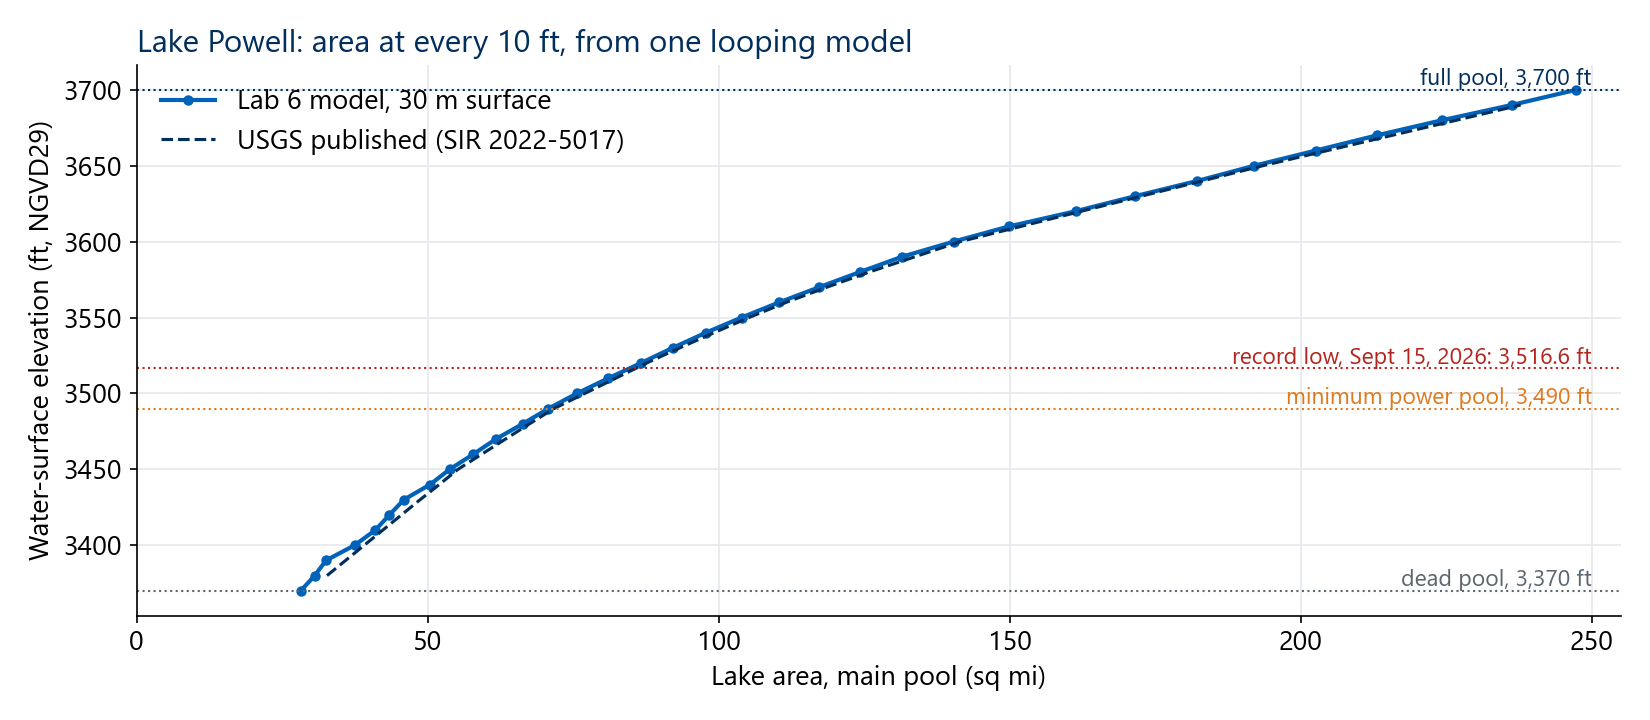
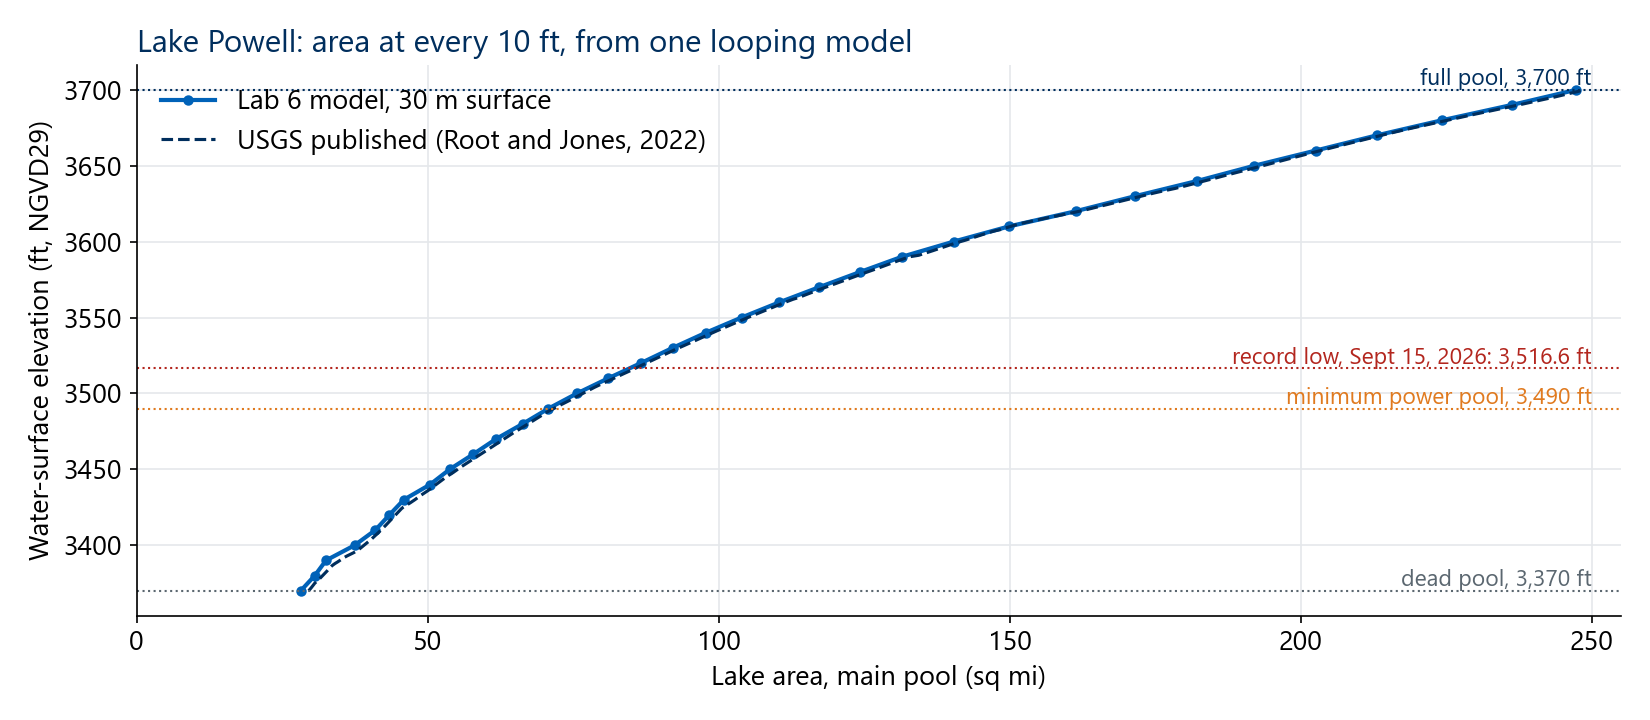
Week 7 Thursday: USGS area curve from the data release; 0.2-1.3 % below
The 'published' curve in lb-powell-area.png came from the Lab 6 package's
interpolation, which was off at 3,500 and 3,700 ft. It now reads the USGS
area-capacity data release behind SIR 2022-5017. The slide says the model
runs 0.2-1.3 % below between 3,500 and 3,700 ft and further below near dead
pool (2-7 %), which the notes turn into a question for the class.

diff --git a/tools/week07_powell_figures.py b/tools/week07_powell_figures.py
@@ -2,7 +2,9 @@
 
 - lb-powell-area.png: main-pool area against water-surface elevation from the Lab 6 model run in
   arcpy (tools/lab06/levels_deadpool.csv, 3,370-3,700 ft by 10), with the USGS published areas
-  (SIR 2022-5017, as interpolated in the Lab 6 package's instructor key) for comparison, and the
+  for comparison (the area-capacity data release behind SIR 2022-5017, doi:10.5066/P9O3IPG3,
+  Lake_Powell_2018_ElevAreaCap_interp.csv, NGVD29 column, acres / 640; saved locally as USGS_TABLE
+  on 2026-10-02 - the earlier version of this figure used the package key's interpolation), and the
   Sept 15, 2026 record low (3,516.62 ft, Reclamation record in the Lab 6 data package).
 - copies of the Lab 6 example map and the Wahweap check map into slides/week-07/images/.
 
@@ -19,15 +21,15 @@ import matplotlib.pyplot as plt
 ROOT = pathlib.Path(__file__).resolve().parent.parent
 IMG = ROOT / "slides" / "week-07" / "images"
 LAB = ROOT / "docs" / "assignments" / "lab-06" / "images"
-KEY = pathlib.Path(r"C:\Ames\Lab06Pkg\CE414_Lab06_Package\data\instructor\powell_check_values.csv")
+USGS_TABLE = pathlib.Path(r"C:\Ames\Lab06\Lake_Powell_2018_ElevAreaCap_interp.csv")
 plt.rcParams.update({"font.family": "Segoe UI", "font.size": 13, "axes.spines.top": False, "axes.spines.right": False})
 
 runs = [(float(r["elevation_ft"]), float(r["pool_sqmi"])) for r in csv.DictReader(open(ROOT / "tools" / "lab06" / "levels_deadpool.csv"))]
-usgs = [(float(r["elevation_ft_ngvd29"]), float(r["usgs_sir2022_5017_sqmi"])) for r in csv.DictReader(open(KEY))
-        if r["surface"] == "powell_30m" and r["usgs_sir2022_5017_sqmi"]]
+usgs = [(float(r["Elevation_ft_NGVD29"]), float(r["Area_acres"]) / 640) for r in csv.DictReader(open(USGS_TABLE))
+        if 3370 <= float(r["Elevation_ft_NGVD29"]) <= 3700 and round(float(r["Elevation_ft_NGVD29"]) * 100) % 100 == 0]
 fig, ax = plt.subplots(figsize=(11, 4.8), dpi=150)
 ax.plot([a for _, a in runs], [z for z, _ in runs], "o-", color="#0062b8", ms=4, lw=2, label="Lab 6 model, 30 m surface")
-ax.plot([a for _, a in usgs], [z for z, _ in usgs], "--", color="#002e5d", lw=1.5, label="USGS published (SIR 2022-5017)")
+ax.plot([a for _, a in usgs], [z for z, _ in usgs], "--", color="#002e5d", lw=1.5, label="USGS published (Root and Jones, 2022)")
 for z, lab, col in ((3700, "full pool, 3,700 ft", "#002e5d"), (3516.62, "record low, Sept 15, 2026: 3,516.6 ft", "#b3261e"),
                     (3490, "minimum power pool, 3,490 ft", "#e07a1f"), (3370, "dead pool, 3,370 ft", "#5b6770")):
     ax.axhline(z, color=col, lw=1, ls=":")

diff --git a/slides/week-07/lake-depth-explorer.md b/slides/week-07/lake-depth-explorer.md
@@ -151,9 +151,9 @@ By the end of class you should be able to:
 
 ![h:400 center](images/lb-powell-area.png)
 
-- The USGS published Lake Powell's area at every level from the same survey — yours should run **0.4–1.8 % below** it
+- The USGS published Lake Powell's area at every level from the same survey — between 3,500 and 3,700 ft yours should run **0.2–1.3 % below** it, and further below near dead pool
 
-<!-- Blue: the Lab 6 model run in arcpy on the 30 m surface, 3,370 to 3,700 ft by 10 (tools/lab06). Dashed: the USGS published areas (SIR 2022-5017). Check values: 75.65 sq mi at 3,500 ft (USGS 77.0), 140.37 at 3,600 (141.5), 247.36 at 3,700 (248.7). The model runs a little low everywhere because 30 m cells drop narrow canyon arms and Step 4 drops arms the coarse cells disconnect. Dead pool, 3,370 ft, leaves 28.19 sq mi. -->
+<!-- Blue: the Lab 6 model run in arcpy on the 30 m surface, 3,370 to 3,700 ft by 10 (tools/lab06). Dashed: the USGS published areas from the area-capacity data release behind SIR 2022-5017 (doi:10.5066/P9O3IPG3; corrected October 2, 2026 - the first version of this figure and the lab page used an interpolation from the Lab 6 package key that was 0.35 sq mi high at 3,500 ft). Check values: 75.65 sq mi at 3,500 ft (USGS 76.65), 140.37 at 3,600 (141.54), 247.36 at 3,700 (248.82): 0.2-1.3 % low at every level from 3,500 to 3,700, and 1.3-6.8 % low from 3,490 down to 3,370, where the pool is mostly narrow canyon. The model runs low because 30 m cells drop narrow canyon arms and Step 4 drops arms the coarse cells disconnect - a good question for the class: why does the gap grow as the lake falls? Dead pool, 3,370 ft, leaves 28.19 sq mi (USGS 29.55). -->
 
 ---
 
